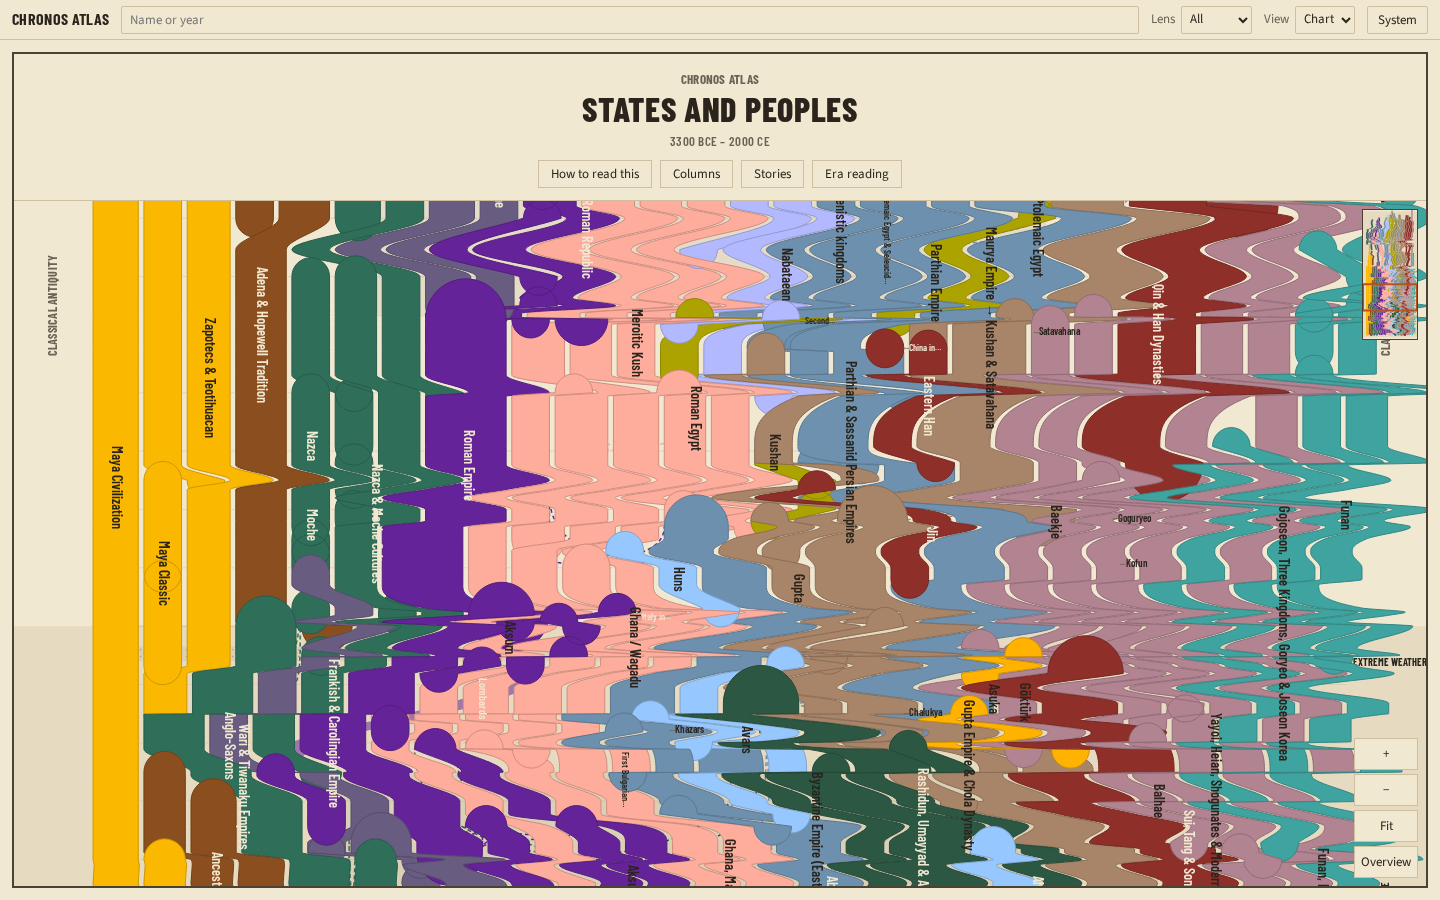
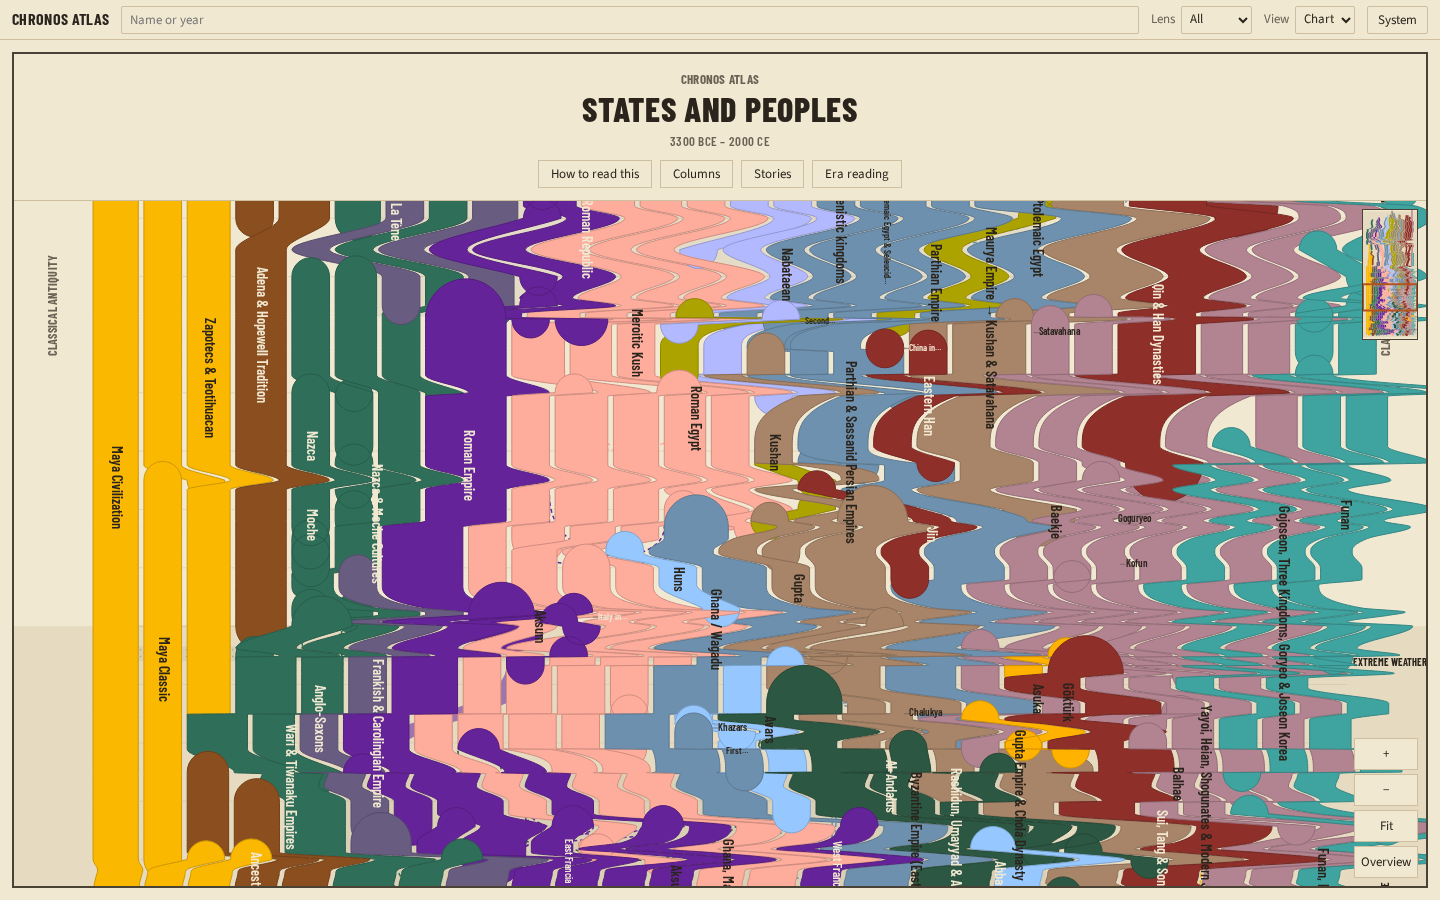
Layout: keep fork endpoints when a peer ribbon can move
East Francia and West Francia were culled, so the Carolingian split
never routed. A split or merge endpoint can now replace the lowest
unprotected ribbon of no higher importance. The Carolingian split
routes, and overlaps and fitted label hits stay 0. Clamping the
packed centerline to the drift cap left 246 overlaps, so that cap
is not kept. M4 is 5 of 11.

diff --git a/src/layout/cull.ts b/src/layout/cull.ts
@@ -1,23 +1,59 @@
 import { MIN_GAP, PLOT_WIDTH, ribbonWidth } from './constants.ts';
 import type { LaneRibbon } from './laneSolver.ts';
 
+function packWidth(kept: readonly LaneRibbon[]): number {
+  let used = 0;
+  for (const ribbon of kept) {
+    const width = ribbonWidth(ribbon.weight);
+    used = used === 0 ? width : used + MIN_GAP + width;
+  }
+  return used;
+}
+
+function fits(kept: readonly LaneRibbon[], ribbon: LaneRibbon): boolean {
+  const width = ribbonWidth(ribbon.weight);
+  const next = kept.length === 0 ? width : packWidth(kept) + MIN_GAP + width;
+  return next <= PLOT_WIDTH - 1;
+}
+
 /**
  * Drop the lowest-importance ribbons until the slice can pack into the plot.
- * Equal importance keeps the earlier id. The solver then has room for the gap.
+ * Equal importance keeps the earlier id. Ids in `protect` are fork endpoints:
+ * each one swaps out the lowest unprotected ribbon of no higher importance
+ * when that is what makes it fit. The solver then has room for the gap.
  */
-export function cullToFit(ribbons: readonly LaneRibbon[]): LaneRibbon[] {
+export function cullToFit(
+  ribbons: readonly LaneRibbon[],
+  protect: ReadonlySet<string> = new Set(),
+): LaneRibbon[] {
   const ordered = [...ribbons].sort(
     (left, right) =>
       right.importance - left.importance || left.id.localeCompare(right.id),
   );
   const kept: LaneRibbon[] = [];
-  let used = 0;
   for (const ribbon of ordered) {
-    const width = ribbonWidth(ribbon.weight);
-    const next = kept.length === 0 ? width : used + MIN_GAP + width;
-    if (next > PLOT_WIDTH - 1) continue;
+    if (!fits(kept, ribbon)) continue;
     kept.push(ribbon);
-    used = next;
+  }
+  if (protect.size === 0) return kept;
+  const rank = new Map(ordered.map((ribbon, index) => [ribbon.id, index]));
+  const waiting = ordered.filter(
+    (ribbon) => protect.has(ribbon.id) && !kept.some((item) => item.id === ribbon.id),
+  );
+  for (const need of waiting) {
+    let trial = [...kept];
+    while (!fits(trial, need)) {
+      const victim = [...trial]
+        .reverse()
+        .find((item) => !protect.has(item.id) && item.importance <= need.importance);
+      if (!victim) break;
+      trial = trial.filter((item) => item.id !== victim.id);
+    }
+    if (!fits(trial, need)) continue;
+    trial.push(need);
+    trial.sort((left, right) => (rank.get(left.id) ?? 0) - (rank.get(right.id) ?? 0));
+    kept.length = 0;
+    kept.push(...trial);
   }
   return kept;
 }

diff --git a/src/layout/cull.test.ts b/src/layout/cull.test.ts
@@ -30,4 +30,27 @@ describe('cull to fit', () => {
     expect(tight.length).toBeLessThan(20);
     expect(tight[0]?.id).toBe('n00');
   });
+
+  it('swaps a fork endpoint in for an equal-importance ribbon', () => {
+    const ribbons = Array.from({ length: 30 }, (_, index) =>
+      ribbon(`n${String(index).padStart(2, '0')}`, 2, 0.35),
+    );
+    const bare = cullToFit(ribbons);
+    expect(bare.some((item) => item.id === 'n29')).toBe(false);
+    const kept = cullToFit(ribbons, new Set(['n29']));
+    expect(kept.some((item) => item.id === 'n29')).toBe(true);
+    expect(kept).toHaveLength(bare.length);
+    expect(kept.some((item) => item.id === 'n28')).toBe(false);
+    expect(kept[0]?.id).toBe('n00');
+  });
+
+  it('does not drop a higher-importance ribbon to save an endpoint', () => {
+    const ribbons = [
+      ...Array.from({ length: 16 }, (_, index) => ribbon(`h${index}`, 3)),
+      ribbon('child', 2),
+    ];
+    const kept = cullToFit(ribbons, new Set(['child']));
+    expect(kept.some((item) => item.id === 'child')).toBe(false);
+    expect(kept.every((item) => item.importance === 3)).toBe(true);
+  });
 });

diff --git a/src/layout/index.ts b/src/layout/index.ts
@@ -178,6 +178,12 @@ function computeLayout(input: LayoutInput): LayoutResult {
       relation.from.every((id) => drawn.has(id)) &&
       relation.to.every((id) => drawn.has(id)),
   );
+  const guarded = new Set<string>();
+  for (const relation of relations) {
+    if (relation.type !== 'split' && relation.type !== 'merge') continue;
+    for (const id of relation.from) guarded.add(id);
+    for (const id of relation.to) guarded.add(id);
+  }
   const slices = buildSlices(polities, relations);
   const laneSlices: LaneSliceInput[] = slices
     .map((slice) => ({
@@ -202,7 +208,7 @@ function computeLayout(input: LayoutInput): LayoutResult {
         ];
       }),
     }))
-    .map((slice) => ({ ...slice, ribbons: cullToFit(slice.ribbons) }));
+    .map((slice) => ({ ...slice, ribbons: cullToFit(slice.ribbons, guarded) }));
   const solved = solveLanes(laneSlices, relations);
   const drifted = applyDrift(
     solved.map((slice, index) => ({

diff --git a/scripts/roster-overrides.test.ts b/scripts/roster-overrides.test.ts
@@ -54,6 +54,17 @@ describe('roster label overrides', () => {
     expect(bareHits).toBe(0);
     expect(tunedHits).toBeLessThanOrEqual(bareHits);
     expect(ribbonOverlap(tuned.ribbons).overlaps).toBe(0);
+    expect(tuned.ribbons.some((ribbon) => ribbon.polityId === 'east_francia')).toBe(
+      true,
+    );
+    expect(tuned.ribbons.some((ribbon) => ribbon.polityId === 'west_francia')).toBe(
+      true,
+    );
+    expect(
+      tuned.connectors.some((connector) =>
+        connector.relationId.startsWith('split_carolingian_'),
+      ),
+    ).toBe(true);
     const importance = new Map(
       dataset.polities.map((polity) => [polity.id, polity.importance]),
     );

diff --git a/docs/reviews/M4.md b/docs/reviews/M4.md
@@ -1,0 +1,35 @@
+# M4 — Appendix D
+
+Scored on 2026-10-26 from the poster on `v2/p5-interactions`, after fork endpoints could swap into a full slice. Layout numbers are `layout()` of the full roster at zoom 1. A fitted-label collision is two fitted boxes overlapping by more than half a pixel on both axes (`labelHitPairs`). Ribbon gates are `docs/reports/layout-latest.json` from this run (warm 123 ms, label hits 0, max drift 296.774). Screenshots: `docs/shots/p3/`, retaken after the swap. M1, M2, and M3 stay 5/11.
+
+**5 pass, 3 partial, 3 fail. 5/11 = 45%.** A partial is not a pass. Do not start P4. Do not start P6.
+
+| #   | Checklist                                                       | Score   | Evidence                                                                                                                                                                                                                                                                                                                                                                                                                                                                                                                                                                                   |
+| --- | --------------------------------------------------------------- | ------- | ------------------------------------------------------------------------------------------------------------------------------------------------------------------------------------------------------------------------------------------------------------------------------------------------------------------------------------------------------------------------------------------------------------------------------------------------------------------------------------------------------------------------------------------------------------------------------------------ |
+| 1   | Whole timeline legible as one field; overview shows 5,300 years | partial | Fit-to-width still scrolls. Overview still fits the sheet to the port (`docs/shots/p3/desktop-overview.png`). Axis height is unchanged, about 3501px, so a 10px label is about 2px on the overview scroller.                                                                                                                                                                                                                                                                                                                                                                               |
+| 2   | Rivers fork, merge, and drift                                   | partial | `roman_empire` is drawn as one ribbon. There is no Western or Eastern Roman polity. No merge relations exist. The Carolingian split now routes: `east_francia` draws "East Francia" and `west_francia` draws "West Francia", with `france_kingdom` and `holy_roman_empire` (`docs/shots/p3/desktop-medieval.png`). Also routed: archaic Greece (`sparta`, `thebes`), Maya postclassic, the thirteen colonies to the United States, and Yuan to Ming. `maxRibbonDrift` is 296.774 on `egypt_late_to_ptolemaic`: 184px of x across 0.62px of y. That is steeper than M3.                     |
+| 3   | ≥ 60 labeled states at the bottom edge                          | fail    | 119 polities meet 1900–2000. 31 have a fitted label. M3 had 32. India, Pakistan, and both Koreas are still not drawn.                                                                                                                                                                                                                                                                                                                                                                                                                                                                      |
+| 4   | Width encodes prominence; not a capsule block                   | pass    | Importance 3 is 69/69 fitted and still wider than importance 2. `docs/shots/p3/desktop-modern.png` shows rivers of different widths.                                                                                                                                                                                                                                                                                                                                                                                                                                                       |
+| 5   | Lineage color, distinguishable neighbors, CVD                   | pass    | `npm run palette:check` exits 0 for 18 families, including deuteranopia, protanopia, and tritanopia.                                                                                                                                                                                                                                                                                                                                                                                                                                                                                       |
+| 6   | Six era bands and ≥ 12 cross-cutting bands, behind the ribbons  | partial | Six era bands paint in both gutters. Cross-cutting bands are the same 11.                                                                                                                                                                                                                                                                                                                                                                                                                                                                                                                  |
+| 7   | ≥ 30 images at default zoom                                     | fail    | `media` is empty. Plates in the layout: 0. Downloads are off.                                                                                                                                                                                                                                                                                                                                                                                                                                                                                                                              |
+| 8   | Labels never clipped; floors met; callouts have leaders         | fail    | Fitted ink hits are 0. Importance-2 fit is 121/125 and importance-3 fit is 69/69. Four labels are hover-only: `azuchi_momoyama`, `british_raj`, `carolingian`, `merovingian_franks`. 19 fitted labels are still a short name or an ellipsis, including `united_states` as "United…". `austria`, `austria_hungary`, `cahokia`, and `scythians` were hover-only ribbons and are no longer drawn. The stage places 37 callouts, drops 8, and marks 13, and does not paint those cards or their leaders. `docs/shots/p3/desktop-classical.png` still shows upright names such as Roman Empire. |
+| 9   | Chrome ≤ 12% at rest; dossier, map, and snapshot closed         | pass    | The top bar, minimap, and zoom controls match M3. At rest the dossier, snapshot, stories, columns, and era list are closed. Checked on `docs/shots/p3/desktop-overview.png`.                                                                                                                                                                                                                                                                                                                                                                                                               |
+| 10  | Parchment, not a dashboard                                      | pass    | Default theme is the parchment sheet and the slim bar. Checked on `docs/shots/p3/desktop-medieval.png`.                                                                                                                                                                                                                                                                                                                                                                                                                                                                                    |
+| 11  | No poster artwork or text copied                                | pass    | The poster file is absent (Q-01). The title and the reading key use our wording.                                                                                                                                                                                                                                                                                                                                                                                                                                                                                                           |
+
+## What changed since M3
+
+A split or merge endpoint that does not fit can replace the lowest unprotected ribbon of no higher importance. That keeps East Francia, West Francia, Sparta, Thebes, Maya postclassic, the Thirteen Colonies, the United States, Yuan, and Ming on the chart. Capping every packed step at `MAX_DRIFT` was measured on this roster: a backward pull left 257 overlaps and a forward clamp left 246, with a minimum gap around −72px. That cap was not kept.
+
+## Fix list
+
+- Item 2 stays partial while Rome is one ribbon, no merge exists, and `egypt_late_to_ptolemaic` jumps 184px in 0.62px of y. India/Pakistan and both Koreas still do not fit.
+- Item 3 stays a fail at 31 fitted modern labels.
+- Item 8 stays a fail while four names are hover-only, 19 fitted names are not the full polity name, and callout leaders are not painted.
+- A twelfth cross-cutting band needs a real sourced event.
+- Images and painted callouts stay P4.
+
+## Decision
+
+M4 is 5/11. Stay in layout tuning. The next lever is the centerline kink, with overlaps kept at 0. Do not open P4. Do not open P6. P8 stays off.

diff --git a/docs/CONTEXT.md b/docs/CONTEXT.md
@@ -20,4 +20,4 @@ Poster and both Gemini PDFs are missing (Q-01). Gemini bibliography [1]–[37] w
 
 ## Next
 
-Layout tuning on branch `v2/p5-interactions`. M3 is 5/11 (45%) in `docs/reviews/M3.md`. M1 and M2 stay 5/11. Fitted names are one straight column, or one horizontal line, pinned to the ribbon. Per-letter seating along a bend was dropped because the shots broke the names apart. Fitted ink hits are 0. Nine names stay hover-only, and 21 fitted names are still short or ellipsized, so item 8 stays a fail. The next lever is the rivers. `east_francia` and `west_francia` already exist and are culled, so the Carolingian split is omitted. `chalukya` jumps 96px across 0.62px of y after packing, and `maxRibbonDrift` is 154.839. Do not invent a Western or Eastern Roman polity, and do not invent a merge. T5.20 is `a1521fc`: gzipped JavaScript is 233.77 KB. T5.99, the phase gate, waits for an honest score of at least 8/11. Do not open P6. `npm run axe` is clean for serious and critical violations. Custom milestones are dashed outlines stored locally, at most 12. On a phone the dossier and the era list are bottom sheets, and a two-finger pinch changes the scale. Keyboard order runs down the poster, then across. Table view lists the same polities, sorted and filtered. Stories plays the three migrated tours and a stop moves the camera. The five migrated presets replace fold and pin, and a named compare stores the current columns. Fold hides a column and pin isolates the rest; the ribbons move for 300 ms. Trade arcs are dashed hairlines and thicken on hover. A lens already reveals its arcs and dims the rest of the chart. Time-lapse stays off when reduced motion is requested. The year snapshot stays closed until the crosshair is locked. The dossier can load an optional Wikipedia extract after a click, and it stays closed until a ribbon is chosen. It has no image slot filled, because no media is attached. M1 is 5/11 passes (45%) in `docs/reviews/M1.md`. Do not start P4. Do not start P6 until a later Appendix D rescore is at least 70%. Do not start P8. The early bin is 38/35. Tag `v2-p2-done` is the merge `390baa7`. Tag `v2-p3-done` is the merge `09a5f75`.
+Layout tuning on branch `v2/p5-interactions`. M4 is 5/11 (45%) in `docs/reviews/M4.md`. M1, M2, and M3 stay 5/11. Fitted names are one straight column, or one horizontal line, pinned to the ribbon. Fork endpoints can replace an equal-or-lower unprotected ribbon, so East Francia and West Francia are drawn and the Carolingian split routes. Fitted ink hits are 0. Four names stay hover-only, and 19 fitted names are still short or ellipsized, so item 8 stays a fail. The next lever is the centerline kink. `egypt_late_to_ptolemaic` jumps 184px across 0.62px of y, and `maxRibbonDrift` is 296.774. Clamping packed steps to `MAX_DRIFT` left 246 overlaps forward and 257 backward, and was not kept. India, Pakistan, and both Koreas still do not fit. Do not invent a Western or Eastern Roman polity, and do not invent a merge. T5.20 is `a1521fc`. The straight-column pin is `71f4ea2`. T5.99, the phase gate, waits for an honest score of at least 8/11. Do not open P6. `npm run axe` is clean for serious and critical violations. Custom milestones are dashed outlines stored locally, at most 12. On a phone the dossier and the era list are bottom sheets, and a two-finger pinch changes the scale. Keyboard order runs down the poster, then across. Table view lists the same polities, sorted and filtered. Stories plays the three migrated tours and a stop moves the camera. The five migrated presets replace fold and pin, and a named compare stores the current columns. Fold hides a column and pin isolates the rest; the ribbons move for 300 ms. Trade arcs are dashed hairlines and thicken on hover. A lens already reveals its arcs and dims the rest of the chart. Time-lapse stays off when reduced motion is requested. The year snapshot stays closed until the crosshair is locked. The dossier can load an optional Wikipedia extract after a click, and it stays closed until a ribbon is chosen. It has no image slot filled, because no media is attached. M1 is 5/11 passes (45%) in `docs/reviews/M1.md`. Do not start P4. Do not start P6 until a later Appendix D rescore is at least 70%. Do not start P8. The early bin is 38/35. Tag `v2-p2-done` is the merge `390baa7`. Tag `v2-p3-done` is the merge `09a5f75`.

diff --git a/docs/DECISIONS.md b/docs/DECISIONS.md
@@ -701,3 +701,13 @@ Alternatives: Draw one glyph per letter along the bend. Force `outside` or an el
 Why: Item 8 needs the full name readable. Following the bend removed the 15 overlaps and made the names unreadable. A straight column on the river removes the overlaps and leaves the string intact.
 
 Reversible? y
+
+## 2026-10-26 — Fork endpoints can take a peer's slot
+
+Decision: `cullToFit` keeps its importance order. A split or merge endpoint that did not fit then replaces the lowest unprotected ribbon of no higher importance, when the widths allow it. East Francia and West Francia are drawn under their full names, and the Carolingian split routes. Sparta, Thebes, Maya postclassic, the Thirteen Colonies, the United States, Yuan, and Ming are drawn as well. Ribbon overlaps stay 0 and fitted label hits stay 0. `maxRibbonDrift` rises from 154.839 to 296.774 because packing still jumps when the slice membership changes. A clamp of those packed steps to `MAX_DRIFT` left 246 overlaps on a forward pass and 257 on a backward pass, so it was not kept. M4 in `docs/reviews/M4.md` is 5/11.
+
+Alternatives: Protect every endpoint with no swap, and let the slice overflow. Hard-code only the two Francia ids. Ship the slope clamp and accept the overlaps.
+
+Why: Item 2 asks for the Frankish fork. The children already exist and were culled. A higher-importance ribbon is not dropped to make room.
+
+Reversible? y

diff --git a/docs/PROGRESS.md b/docs/PROGRESS.md
@@ -109,7 +109,9 @@
 
 ## Layout tuning
 
-2026-10-26 — Rotated and horizontal names are pinned to a straight column or line on the ribbon. `npm run layout:report` label hits 0, warm 126 ms, gates pass. `docs/reviews/M3.md` is 5/11. Per-letter bend seating was not kept. P4 and P6 stay closed.
+2026-10-26 — Rotated and horizontal names are pinned to a straight column or line on the ribbon (`71f4ea2`). `npm run layout:report` label hits 0, warm 126 ms, gates pass. `docs/reviews/M3.md` is 5/11. Per-letter bend seating was not kept.
+
+2026-10-26 — Fork endpoints can replace an equal-importance ribbon. The Carolingian split routes. `npm run layout:report` label hits 0, warm 123 ms, max drift 296.774, gates pass. `docs/reviews/M4.md` is 5/11. A `MAX_DRIFT` clamp on packed steps left 246 overlaps and was not kept. P4 and P6 stay closed.
 
 ## Blocked
 
